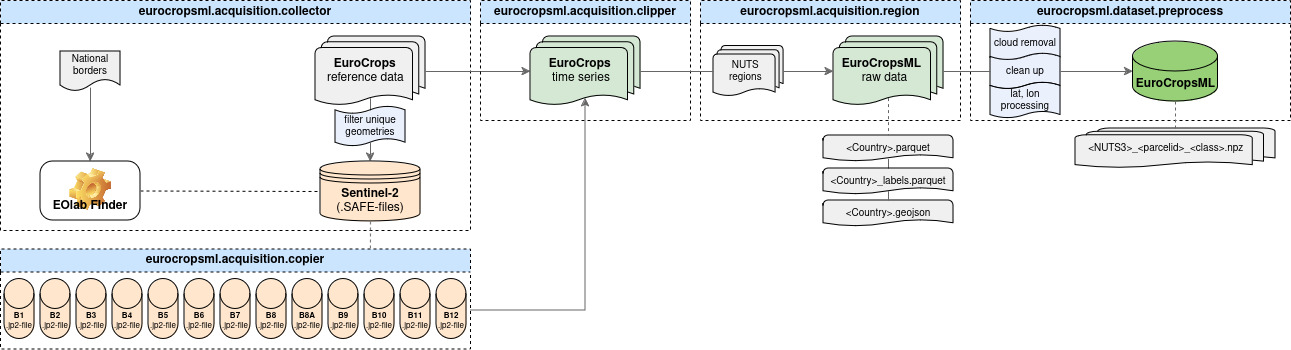
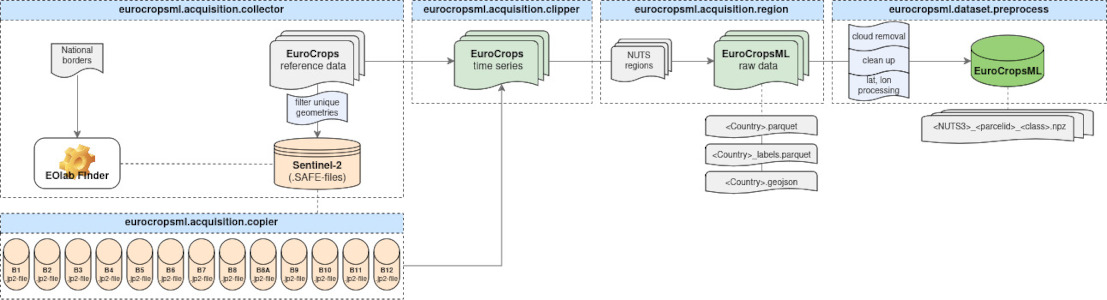
update image sizes and paths in readme

diff --git a/README.md b/README.md
@@ -18,7 +18,7 @@ For EuroCropsML we acquired and aggregated data for the following countries:
 | Latvia       | 431,143 | 103 |
 | Portugal     | 99,634 | 79 |
 
-| [![Spatial distribution of labels within Estland and Latvia.](docs/_static/labels_spatial_distribution_EE_LV_nuts3_300.png)](docs/_static/labels_spatial_distribution_EE_LV_nuts3.png) | [![Spatial distribution of labels within Portugal.](docs/_static/labels_spatial_distribution_portugal_nuts3_300.png)](docs/_static/labels_spatial_distribution_portugal_nuts3.png) |
+| ![Spatial distribution of labels within Estland and Latvia.](docs/_static/labels_spatial_distribution_EE_LV_nuts3.png) | ![Spatial distribution of labels within Portugal.](docs/_static/labels_spatial_distribution_portugal_nuts3.png) |
 | - | - |
 
 The distribution of class labels differs substantially between the regions of Estonia, Latvia, and Portugal.
@@ -27,7 +27,7 @@ Therefore, this dataset is particularly suited to explore transfer-learning meth
 
 The data acquisition, aggregation, and pre-processing steps are schematically illustrated below. A more detailed description is given in the [dataset section](https://eurocropsml.readthedocs.io/en/latest/dataset.html) of our documentation.
 
-[![Data Acquisition Pipeline.](docs/_static/acquisition-pipeline_300.jpg)](docs/_static/acquisition-pipeline.jpg)
+![Data Acquisition Pipeline.](docs/_static/acquisition-pipeline.jpg)
 <!-- teaser-end -->
 
 ## Getting Started
